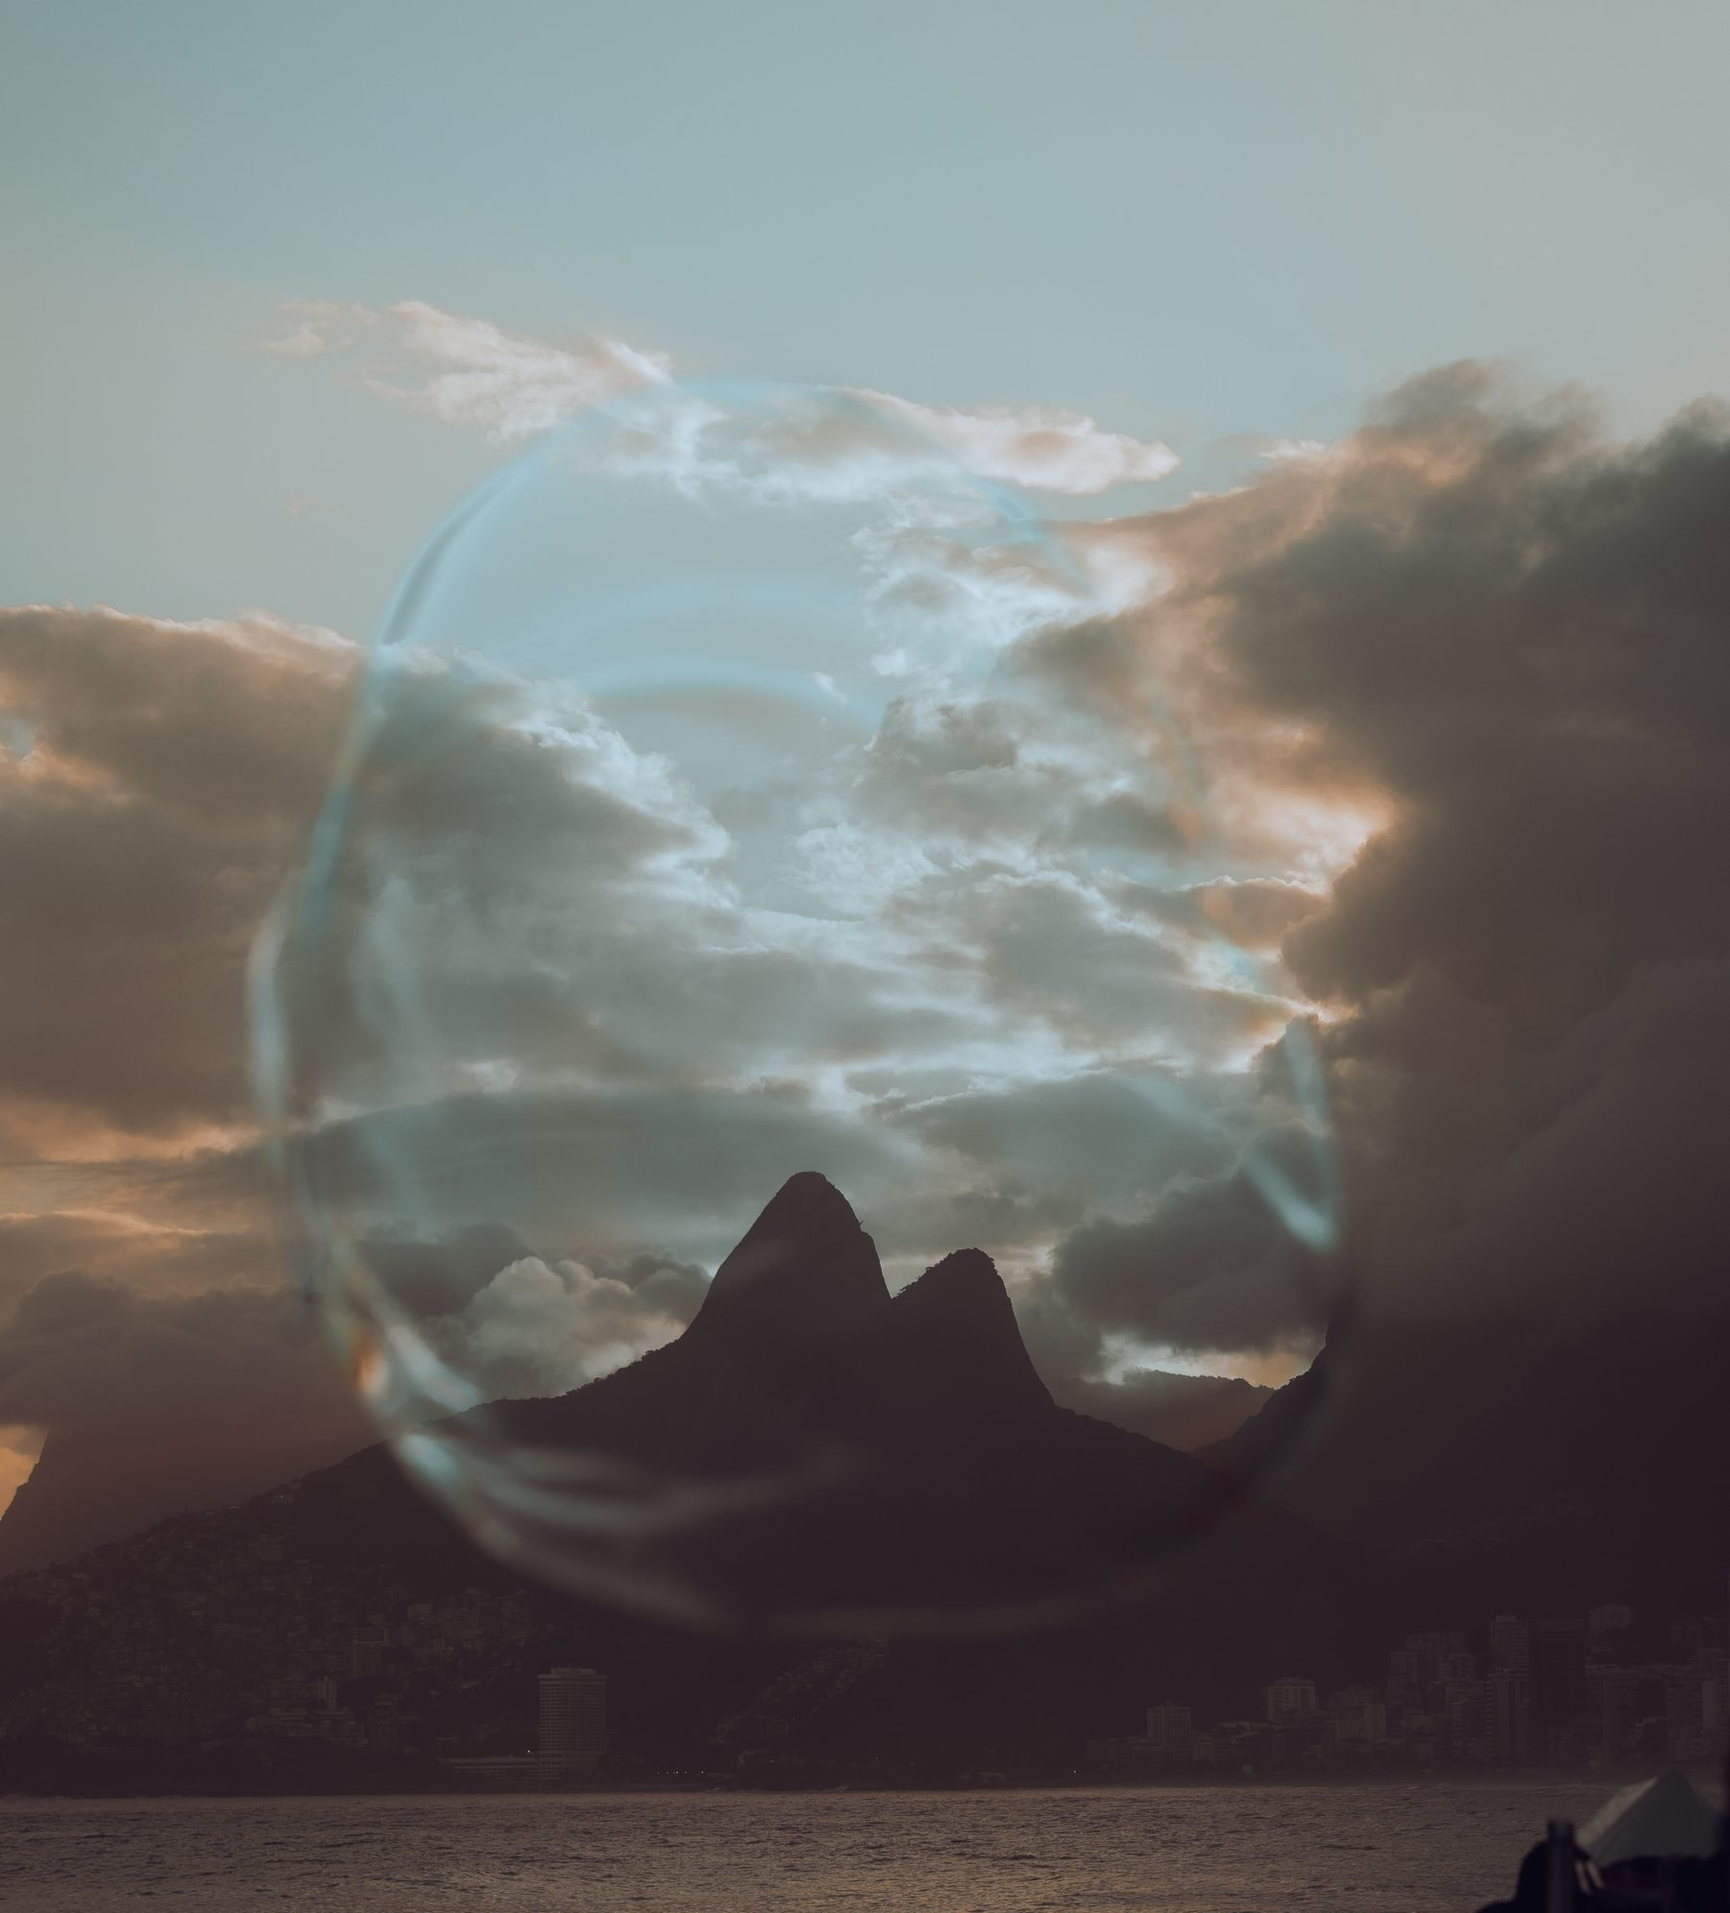
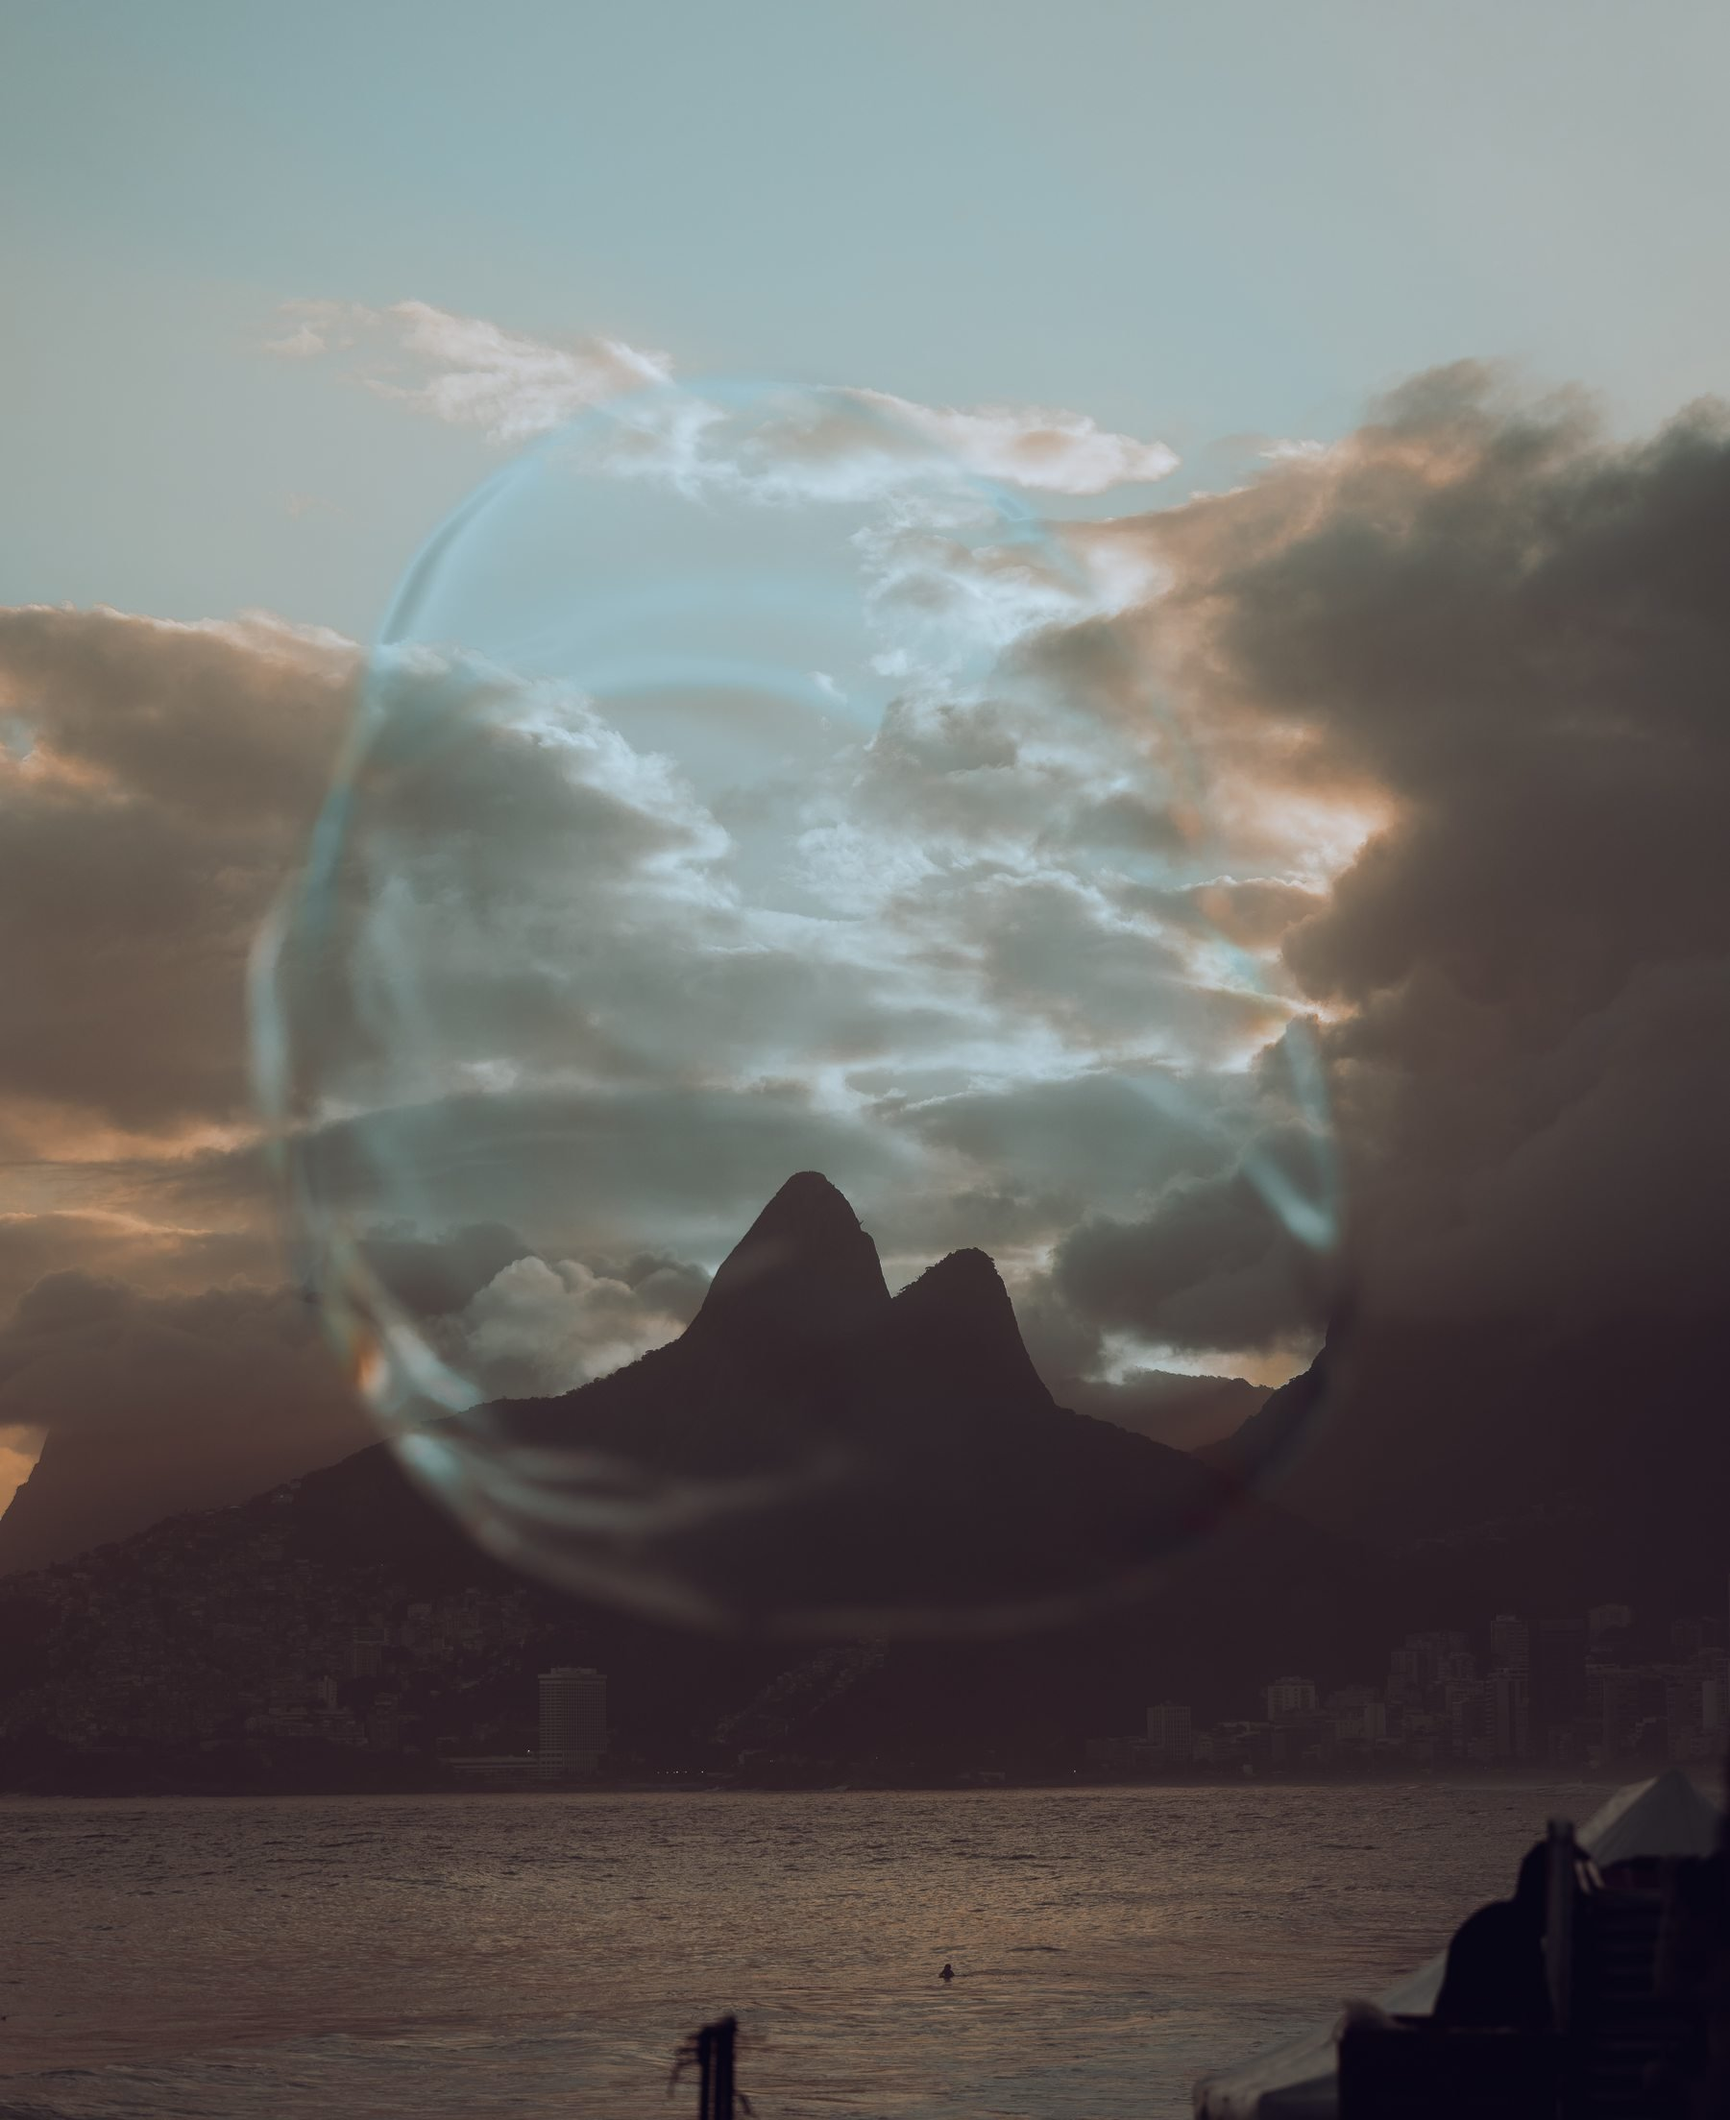
Soften Arpoador hero crop (17% -> 8%) and drop placeholder description
Hero crop was too aggressive — restored more of the bottom so the
bubble and Dois Irmãos breathe. Also removed the "Em breve…"
placeholder description block on PT/EN/FR; introduces
.project-info--solo so the meta column stays at a sane width
without a description next to it.

diff --git a/fr/arpoador.html b/fr/arpoador.html
@@ -9,7 +9,7 @@
 
   <link rel="preconnect" href="https://fonts.googleapis.com" />
   <link rel="preconnect" href="https://fonts.gstatic.com" crossorigin />
-  <link rel="stylesheet" href="../css/style.css?v=12" />
+  <link rel="stylesheet" href="../css/style.css?v=13" />
 </head>
 <body>
 
@@ -58,37 +58,26 @@
       </div>
     </section>
 
-    <section class="project-info" aria-label="À propos du projet">
+    <section class="project-info project-info--solo" aria-label="À propos du projet">
       <div class="wrap">
-        <div class="project-info__grid">
-
-          <aside class="project-info__meta fi">
-            <div class="project-info__meta-row">
-              <p class="project-info__key">Lieu</p>
-              <p class="project-info__value">Arpoador</p>
-            </div>
-            <div class="project-info__meta-row">
-              <p class="project-info__key">Localisation</p>
-              <p class="project-info__value">Rio de Janeiro, RJ</p>
-            </div>
-            <div class="project-info__meta-row">
-              <p class="project-info__key">Type</p>
-              <p class="project-info__value">Contenu social</p>
-            </div>
-            <div class="project-info__meta-row">
-              <p class="project-info__key">Année</p>
-              <p class="project-info__value">2026</p>
-            </div>
-          </aside>
-
-          <div class="project-info__desc fi fi-d1">
-            <p>
-              <!-- [Texte à définir — description du projet Arpoador / Merveilles Cariocas, 2 à 4 paragraphes] -->
-              Bientôt, la lecture visuelle complète de ce projet.
-            </p>
+        <aside class="project-info__meta fi">
+          <div class="project-info__meta-row">
+            <p class="project-info__key">Lieu</p>
+            <p class="project-info__value">Arpoador</p>
           </div>
-
-        </div>
+          <div class="project-info__meta-row">
+            <p class="project-info__key">Localisation</p>
+            <p class="project-info__value">Rio de Janeiro, RJ</p>
+          </div>
+          <div class="project-info__meta-row">
+            <p class="project-info__key">Type</p>
+            <p class="project-info__value">Contenu social</p>
+          </div>
+          <div class="project-info__meta-row">
+            <p class="project-info__key">Année</p>
+            <p class="project-info__value">2026</p>
+          </div>
+        </aside>
       </div>
     </section>
 

diff --git a/arpoador.html b/arpoador.html
@@ -9,7 +9,7 @@
 
   <link rel="preconnect" href="https://fonts.googleapis.com" />
   <link rel="preconnect" href="https://fonts.gstatic.com" crossorigin />
-  <link rel="stylesheet" href="css/style.css?v=12" />
+  <link rel="stylesheet" href="css/style.css?v=13" />
 </head>
 <body>
 
@@ -58,37 +58,26 @@
       </div>
     </section>
 
-    <section class="project-info" aria-label="Sobre o projeto">
+    <section class="project-info project-info--solo" aria-label="Sobre o projeto">
       <div class="wrap">
-        <div class="project-info__grid">
-
-          <aside class="project-info__meta fi">
-            <div class="project-info__meta-row">
-              <p class="project-info__key">Lugar</p>
-              <p class="project-info__value">Arpoador</p>
-            </div>
-            <div class="project-info__meta-row">
-              <p class="project-info__key">Localização</p>
-              <p class="project-info__value">Rio de Janeiro, RJ</p>
-            </div>
-            <div class="project-info__meta-row">
-              <p class="project-info__key">Tipo</p>
-              <p class="project-info__value">Conteúdo social</p>
-            </div>
-            <div class="project-info__meta-row">
-              <p class="project-info__key">Ano</p>
-              <p class="project-info__value">2026</p>
-            </div>
-          </aside>
-
-          <div class="project-info__desc fi fi-d1">
-            <p>
-              <!-- [Texto a definir — descrição do projeto Arpoador / Maravilhas Cariocas, 2 a 4 parágrafos] -->
-              Em breve, a leitura visual completa deste projeto.
-            </p>
+        <aside class="project-info__meta fi">
+          <div class="project-info__meta-row">
+            <p class="project-info__key">Lugar</p>
+            <p class="project-info__value">Arpoador</p>
           </div>
-
-        </div>
+          <div class="project-info__meta-row">
+            <p class="project-info__key">Localização</p>
+            <p class="project-info__value">Rio de Janeiro, RJ</p>
+          </div>
+          <div class="project-info__meta-row">
+            <p class="project-info__key">Tipo</p>
+            <p class="project-info__value">Conteúdo social</p>
+          </div>
+          <div class="project-info__meta-row">
+            <p class="project-info__key">Ano</p>
+            <p class="project-info__value">2026</p>
+          </div>
+        </aside>
       </div>
     </section>
 

diff --git a/en/arpoador.html b/en/arpoador.html
@@ -9,7 +9,7 @@
 
   <link rel="preconnect" href="https://fonts.googleapis.com" />
   <link rel="preconnect" href="https://fonts.gstatic.com" crossorigin />
-  <link rel="stylesheet" href="../css/style.css?v=12" />
+  <link rel="stylesheet" href="../css/style.css?v=13" />
 </head>
 <body>
 
@@ -58,37 +58,26 @@
       </div>
     </section>
 
-    <section class="project-info" aria-label="About the project">
+    <section class="project-info project-info--solo" aria-label="About the project">
       <div class="wrap">
-        <div class="project-info__grid">
-
-          <aside class="project-info__meta fi">
-            <div class="project-info__meta-row">
-              <p class="project-info__key">Place</p>
-              <p class="project-info__value">Arpoador</p>
-            </div>
-            <div class="project-info__meta-row">
-              <p class="project-info__key">Location</p>
-              <p class="project-info__value">Rio de Janeiro, RJ</p>
-            </div>
-            <div class="project-info__meta-row">
-              <p class="project-info__key">Type</p>
-              <p class="project-info__value">Social content</p>
-            </div>
-            <div class="project-info__meta-row">
-              <p class="project-info__key">Year</p>
-              <p class="project-info__value">2026</p>
-            </div>
-          </aside>
-
-          <div class="project-info__desc fi fi-d1">
-            <p>
-              <!-- [Text to be defined — description of the Arpoador / Carioca Wonders project, 2 to 4 paragraphs] -->
-              Soon, the full visual reading of this project.
-            </p>
+        <aside class="project-info__meta fi">
+          <div class="project-info__meta-row">
+            <p class="project-info__key">Place</p>
+            <p class="project-info__value">Arpoador</p>
           </div>
-
-        </div>
+          <div class="project-info__meta-row">
+            <p class="project-info__key">Location</p>
+            <p class="project-info__value">Rio de Janeiro, RJ</p>
+          </div>
+          <div class="project-info__meta-row">
+            <p class="project-info__key">Type</p>
+            <p class="project-info__value">Social content</p>
+          </div>
+          <div class="project-info__meta-row">
+            <p class="project-info__key">Year</p>
+            <p class="project-info__value">2026</p>
+          </div>
+        </aside>
       </div>
     </section>
 

diff --git a/css/style.css b/css/style.css
@@ -1628,6 +1628,12 @@ h1, h2, h3, h4 {
   max-width: 620px;
 }
 
+/* Project info without a description — meta stays in a sane column,
+   not stretched across the whole wrap. */
+.project-info--solo .project-info__meta {
+  max-width: 420px;
+}
+
 .project-info__desc p + p { margin-top: var(--s3); }
 
 /* Project film — full-bleed dark band, the film is the centerpiece */
